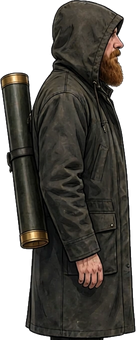
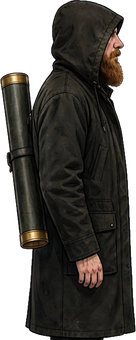
The Unfinished Journal: darker cloak for The Archivist (Carter's ask)
Carter, 2026-10-25: "make the cloak darker". cut.py now darkens only the dull
olive/charcoal pixels of the coat and hood (x0.62, soft-edged mask). The face,
eyes, beard, skin, brass and scroll case are untouched. Raised-arm sleeve and
pre-load fallback colours darkened to match. Output is repeatable.

Claude-Session: https://claude.ai/code/session_01FAAo7XY473oywLFz3iKTjM

diff --git a/docs/assets/games/treasure.js b/docs/assets/games/treasure.js
@@ -1506,8 +1506,8 @@
       var leg = p.onGround && Math.abs(p.vx) > 0.4 ? Math.sin(p.run) * 4 : 0;
       cx.strokeStyle = "#2a1c10"; cx.lineWidth = 4; cx.lineCap = "round";
       cx.beginPath(); cx.moveTo(-1, 4); cx.lineTo(-3, 11 + leg); cx.moveTo(1, 4); cx.lineTo(3, 11 - leg); cx.stroke();
-      cx.fillStyle = "#2b2b23"; cx.fillRect(-6, -6, 12, 14);                         // long coat
-      cx.fillStyle = "#2b2b23"; cx.beginPath(); cx.arc(0, -11, 6.5, 0, 7); cx.fill();  // hood up
+      cx.fillStyle = "#1b1b16"; cx.fillRect(-6, -6, 12, 14);                         // long coat
+      cx.fillStyle = "#1b1b16"; cx.beginPath(); cx.arc(0, -11, 6.5, 0, 7); cx.fill();  // hood up
       cx.fillStyle = "#d8ab6e"; cx.beginPath(); cx.arc(2, -10.5, 3.6, 0, 7); cx.fill(); // face in the hood
       cx.restore(); p.hand = null;
     }

diff --git a/art-source/archivist/cut.py b/art-source/archivist/cut.py
@@ -20,6 +20,25 @@ ROOT = os.path.abspath(os.path.join(HERE, "..", ".."))
 OUT = os.path.join(ROOT, "docs", "assets", "games", "art", "treasure")
 SHEET = Image.open(os.path.join(HERE, "character-sheet-archivist-hooded.webp")).convert("RGB")
 
+# Carter, 2026-10-25: "make the cloak darker". Only the coat and hood are darkened: dull, unsaturated olive and
+# charcoal pixels inside the coat areas. The face (boxes kept out), the beard and skin (too saturated), the eyes, the brass
+# and the scroll case are left exactly as on the sheet.
+CLOAK_DARKEN = 0.62
+def darken_cloak(sheet):
+    a = np.asarray(sheet).astype(float)
+    mx, mn = a.max(2), a.min(2)
+    dull = np.clip((40 - (mx - mn)) / 12, 0, 1) * np.clip((165 - mx) / 25, 0, 1)   # soft edges, no hard seams
+    area = np.zeros(mx.shape)
+    area[400:1086, 100:400] = 1          # side view, hood to coat hem
+    area[540:910, 290:400] = 0           # its scroll case
+    area[468:525, 148:200] = 0           # its eye and brow (skin and beard are protected by colour)
+    area[150:522, 520:820] = 1           # front view, the portrait crop
+    area[262:330, 612:740] = 0           # its eyes and brow
+    area = ndimage.gaussian_filter(area, 6)
+    f = 1 - (1 - CLOAK_DARKEN) * dull * area
+    return Image.fromarray(np.clip(a * f[:, :, None], 0, 255).astype(np.uint8))
+SHEET = darken_cloak(SHEET)
+
 
 def cutout(box):
     """Crop a box and make the paper and grid lines transparent: flood-fill light, grey pixels from the edge."""
@@ -105,7 +124,7 @@ manifest = {
     "kneeFromHip": [r(-(KNEE[0] - HIP[0])), r(KNEE[1] - HIP[1])],
     "footFromHip": r(sole - HIP[1]),
     "arm": {"x": r(-(SHOULDER[0] - HIP[0])), "y": r(SHOULDER[1] - HIP[1]), "len": r(215), "w": r(62),
-            "sleeve": "#2b2b23", "sleeveLight": "#454436", "hand": "#c99878"},
+            "sleeve": "#1b1b16", "sleeveLight": "#2b2a21", "hand": "#c99878"},
 }
 with open(os.path.join(OUT, "manifest.json"), "w") as f:
     json.dump(manifest, f, indent=1)
